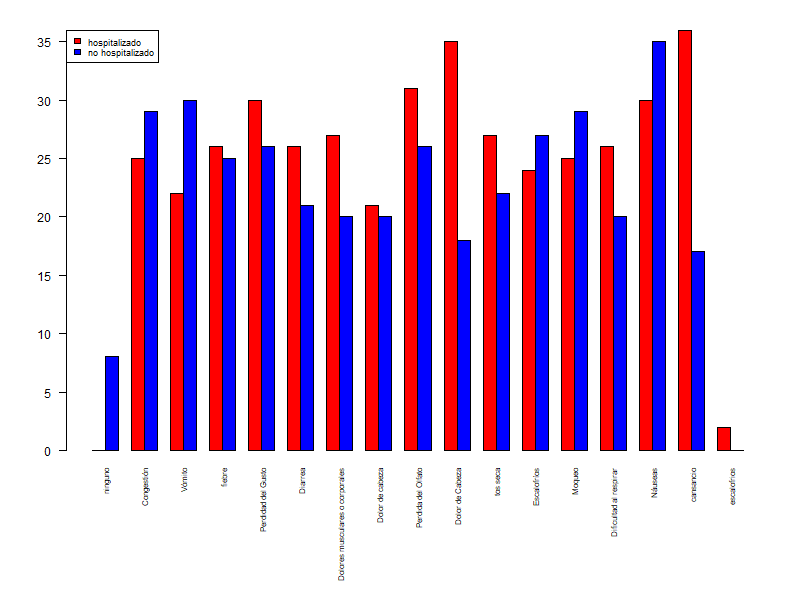
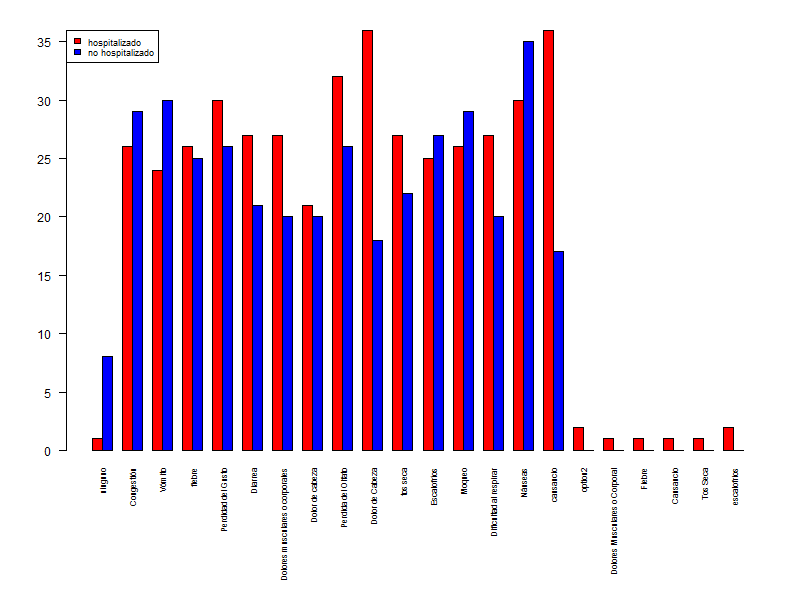
grafico

diff --git a/vistas/formulario.html b/vistas/formulario.html
@@ -5,11 +5,7 @@
     <meta name="viewport" content="width=device-width, initial-scale=1.0">
     <title>Formulario</title>
     <link href="https://cdn.jsdelivr.net/npm/bootstrap@5.0.0-beta1/dist/css/bootstrap.min.css" rel="stylesheet" integrity="sha384-giJF6kkoqNQ00vy+HMDP7azOuL0xtbfIcaT9wjKHr8RbDVddVHyTfAAsrekwKmP1" crossorigin="anonymous">
-<<<<<<< HEAD
-    <link href="..//css//style.css" rel="stylesheet" type="text/css">
-=======
     <link href="../css/style.css" rel="stylesheet" type="text/css">
->>>>>>> 4bed3a7a26497f56fc83a1e0478d82edb260bdd6
 </head>
 <body>
     <h1>Formulario de Covid 19</h1>
@@ -109,7 +105,7 @@
                 <label class="form-check-label" for="inlineCheckbox2">Dificultad al respirar</label>
               </div>
               <div class="form-check">
-                <input class="form-check-input" type="checkbox" name="check[]" id="inlineCheckbox2" value="option2">
+                <input class="form-check-input" type="checkbox" name="check[]" id="inlineCheckbox2" value="Perdida del gusto">
                 <label class="form-check-label" for="inlineCheckbox2">Perdida del gusto</label>
               </div>
               <div class="form-check">
@@ -117,8 +113,8 @@
                 <label class="form-check-label" for="inlineCheckbox2">Perdida del Olfato</label>
               </div>
               <div class="form-check">
-                <input class="form-check-input" type="checkbox" name="check[]" value="Dolores Musculares o Corporal">
-                <label class="form-check-label" for="inlineCheckbox2">Dolores Musculares o Corporal</label>
+                <input class="form-check-input" type="checkbox" name="check[]" value="Dolores Musculares o Corporales">
+                <label class="form-check-label" for="inlineCheckbox2">Dolores Musculares o Corporales</label>
               </div>
               <div class="form-check">
                 <input class="form-check-input" type="checkbox" name="check[]" value="Escalofríos">
@@ -129,22 +125,21 @@
                 <label class="form-check-label" for="inlineCheckbox2">Moqueo</label>
               </div>
               <div class="form-check">
-                <input class="form-check-input" type="checkbox" name="check[]" value="Fiebre">
+                <input class="form-check-input" type="checkbox" name="check[]" value="fiebre">
                 <label class="form-check-label" for="inlineCheckbox2">Fiebre</label>
               </div>
               <div class="form-check">
-                <input class="form-check-input" type="checkbox" name="check[]" value="Cansancio">
+                <input class="form-check-input" type="checkbox" name="check[]" value="cansancio">
                 <label class="form-check-label" for="inlineCheckbox2">Cansancio</label>
               </div>
               <div class="form-check">
-                <input class="form-check-input" type="checkbox" name="check[]" value="Tos Seca">
+                <input class="form-check-input" type="checkbox" name="check[]" value="tos Seca">
                 <label class="form-check-label" for="inlineCheckbox2">Tos Seca</label>
               </div>
               <div class="form-check">
                 <input class="form-check-input" type="checkbox" name="check[]" value="ninguno">
                 <label class="form-check-label" for="inlineCheckbox2">Ninguno</label>
-              </div>
-              
+              </div>   
         </div>
         <div>
             <label class="form-check-label titulos" for="exampleRadios1">Estuvo Hospitalizado</label>

diff --git a/vistas/seleccionformularios.html b/vistas/seleccionformularios.html
@@ -13,7 +13,7 @@
 
     <h1>Formularios de COVID 2019</h1>
     <div>
-    <button class="btn btn-primary" onclick="location.href = 'formulario.html'">Agregar Persona</button>
+    <button class="btn btn-primary" onclick="location.href = '../formulario/formulario.php'">Agregar Persona</button>
     <button class="btn btn-primary" onclick="location.href = 'vistadelete.html'">Borrar Persona</button>
     </div>
     <button class="btn btn-primary" onclick = "location.href='pantallaprincipal.html'">Volver</button>

diff --git a/config_db_crud/insert.php b/config_db_crud/insert.php
@@ -9,7 +9,7 @@
             $cadena = '<div id=mensaje>Datos guardados correctamente</div>';
             echo $cadena;
         }else{
-            echo "<div id=mensaje2>" . mysqli_error($link).'</div>';
+            echo "" . mysqli_error($link);
         }
         $link -> close();
     } 
@@ -27,11 +27,7 @@
         }
         $link -> close();
     }
-<<<<<<< HEAD
-=======
-    insertar_Persona('1203478135','Ruth Leonor','Pluas Lopez','Guayas','si','ninguno','si','F','si','24','2021-01-21','fiebre');        
->>>>>>> 4bed3a7a26497f56fc83a1e0478d82edb260bdd6
-    //insertar_Fallecido("0985046813","YYY","zzz","M","ninguna","no","0950648139");     
+   
   /*   $linea = 0;
     //Abrimos nuestro archivo
     $archivo = fopen("../datos2.csv", "r");
@@ -54,9 +50,9 @@
         $fecha = $datos[10];
         $sintomas = $datos[11];
         insertar_Persona($cedula,$nombre,$apellido,$ciudad,$covid,$forma_contagio,$tuvo_sintomas,$sexo,$hospitalizados,$edad,$fecha,$sintomas);
-    }
+    }*/
     //Cerramos el archivo
-    fclose($archivo); 
+    //fclose($archivo); 
     $linea = 0;
     //Abrimos nuestro archivo
     $archivo = fopen("../datos3.csv", "r");
@@ -77,5 +73,4 @@
     }
     //Cerramos el archivo
     fclose($archivo);
-    */
 ?>

diff --git a/formulario/formulario.php b/formulario/formulario.php
@@ -1,4 +1,4 @@
 <?php 
-      
+      //include("../config_db_crud/insert.php");
         include("funciones_disenio_frontend.php");
 ?>
